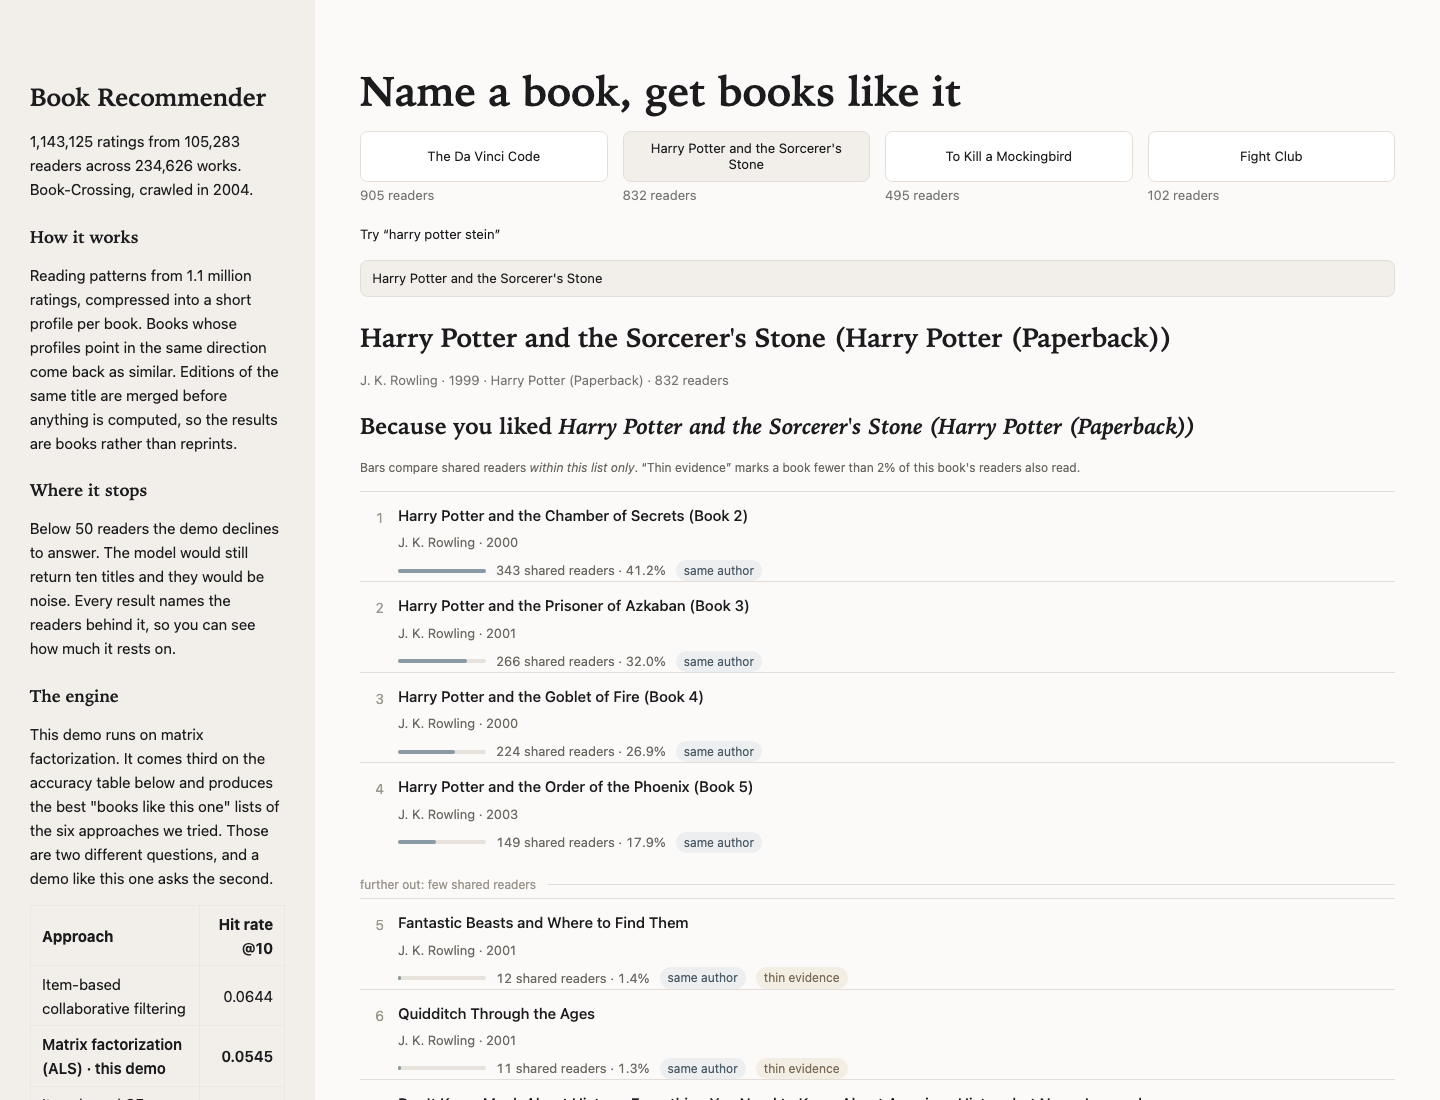
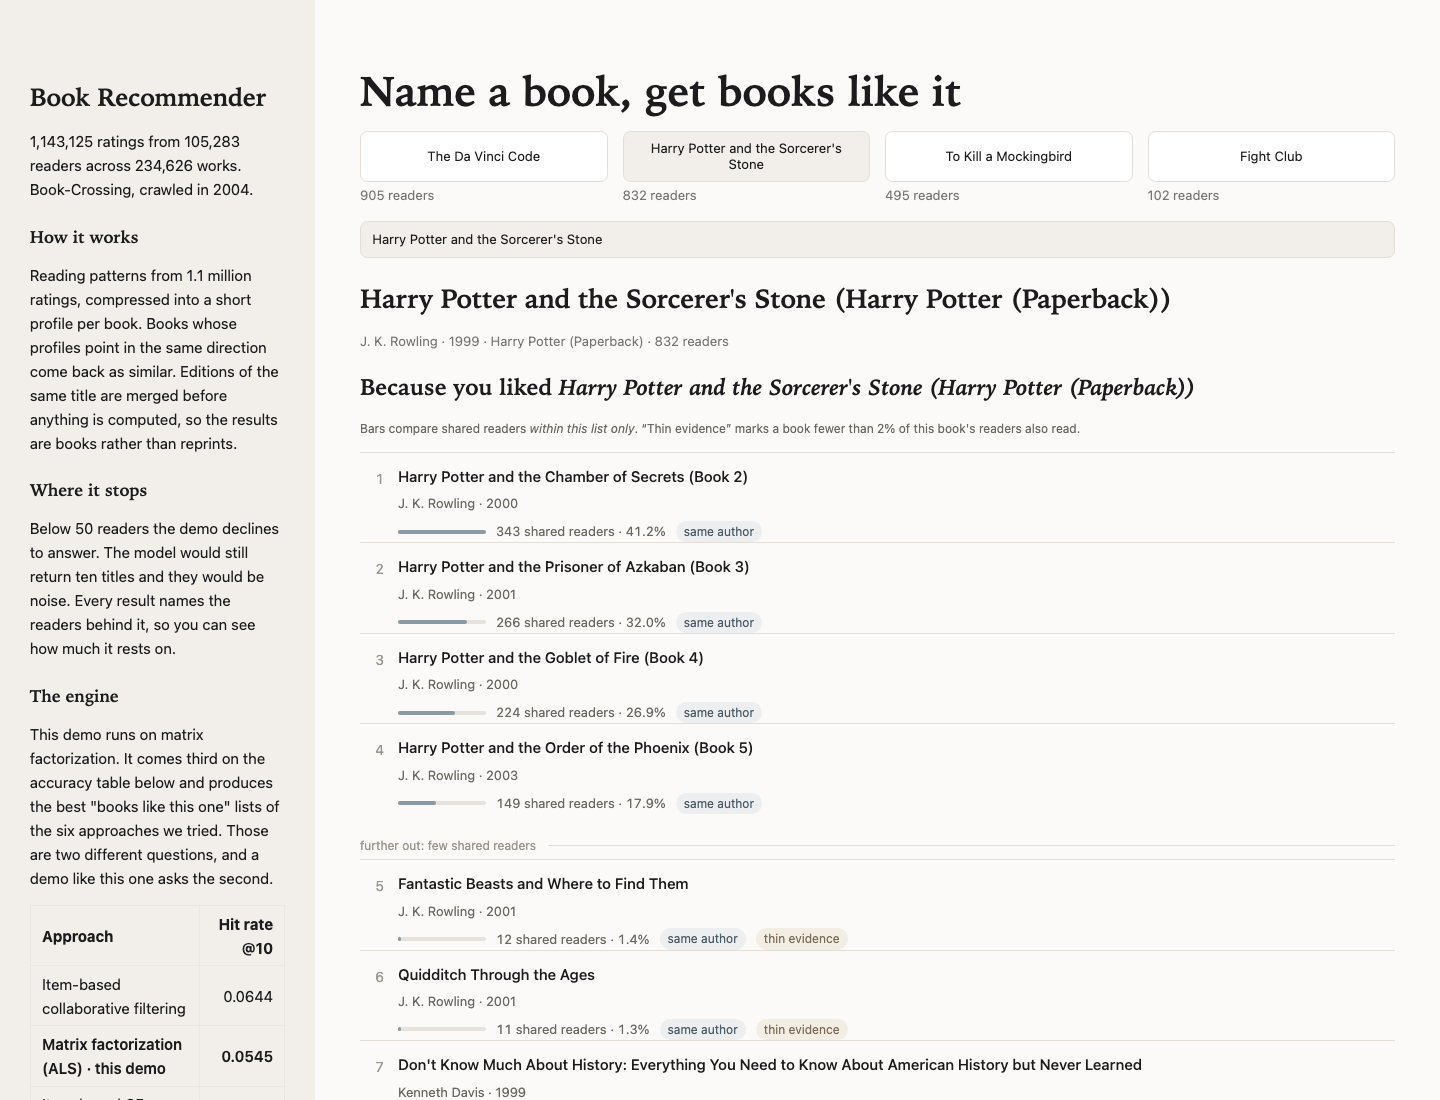
Drop the "Try harry potter stein" example from the input area
review,on seeing it run. M15.7 put the query on screen as a clickable
example; it is still the query worth showing — it takes two serving rules to
resolve (L62) — but it is a thing to say while typing it live, not a control
the screen has to carry. The anchor buttons already cover "I do not want to
type".

The constant and its tertiary-button styling go with it. The screenshot script
keeps its own copy of the query, so the free-text flow is still shot.

Changed region(s): [[0.25, 0.1855, 0.8438, 1.0], [0.5312, 0.8345, 0.5938, 0.8964]]

diff --git a/app/main.py b/app/main.py
@@ -71,10 +71,6 @@ except ModuleNotFoundError as error:  # pragma: no cover - the wrong-interpreter
     )
     st.stop()
 
-#: The free-text example, offered as a click rather than as a placeholder nobody types. It
-#: is the query that took two serving rules to make work (L62), so it is worth being seen.
-EXAMPLE_QUERY = "harry potter stein"
-
 #: Everything visual that Streamlit's theme cannot express. Kept in one block so the layout
 #: can be read in one place, and deliberately small: the theme in `.streamlit/config.toml`
 #: does most of the work.
@@ -96,9 +92,6 @@ STYLE = """
      match the current DOM, which is why the first attempt silently did nothing. */
   [data-testid^="stBaseButton"] {min-height: 3.4rem; white-space: normal;
                                  line-height: 1.2; font-size: 14px;}
-  /* ...except the tertiary "try this query" link, which is a line of text, not a target. */
-  [data-testid="stBaseButton-tertiary"] {min-height: 0; height: auto; font-size: 13px;}
-
   /* The reader count belongs *to* its button, so it sits against it rather than floating in
      the middle of the gap Streamlit puts between two elements in a column. Scoped to the
      keyed container, so every other caption in the app keeps its normal spacing. */
@@ -293,14 +286,14 @@ def main() -> None:
             # product rather than only asserted on a slide.
             column.caption(f"{engine.describe(isbn).readers:,} readers")
 
-    # Every writer of `st.session_state["query"]` has to run **before** the text input that
-    # owns that key is instantiated — Streamlit raises `StreamlitAPIException` otherwise,
-    # and the first version of this had the example button underneath the field, where it
-    # crashed the app on click. The anchor buttons above were always on the right side of
-    # that line; this one was not.
-    if st.button(f"Try “{EXAMPLE_QUERY}”", type="tertiary"):
-        st.session_state["query"] = EXAMPLE_QUERY
-
+    # M15.7 offered "harry potter stein" as a clickable example here; it was cut on
+    # 09.08. The query is still the one worth showing — it takes two serving rules to
+    # resolve (L62) — but it is a thing to *say* while typing it live, not a control the
+    # screen has to carry. The anchor buttons already cover "I do not want to type".
+    #
+    # Anything that writes `st.session_state["query"]` must still run **before** this
+    # widget is created: Streamlit raises otherwise, and the example button crashed the
+    # app on click for exactly that reason before it was moved above the field.
     query = st.text_input(
         "Book",
         key="query",
